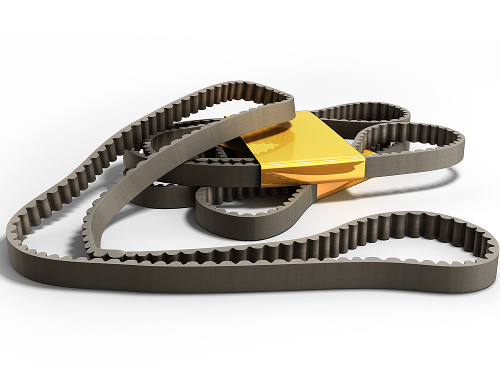
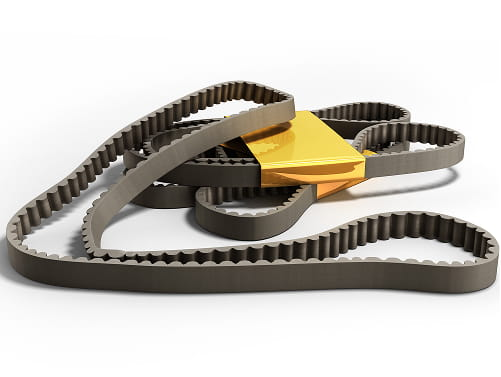
Add files via upload

diff --git a/css/main.css b/css/main.css
@@ -2177,3 +2177,85 @@ input[type=number] {
 .relatives .title-section {
 	margin-top: 0;
 }
+
+.item-news {
+	padding: 20px;
+	border: 1px solid rgba(102, 106, 114, 0.5);
+	border-radius: 6px;
+	display: flex;
+	flex-direction: column;
+	align-items: flex-start;
+	min-height: 100%;
+	transition: all 0.3s;
+}
+.item-news__image {
+	height: 207px;
+	margin-bottom: 14px;
+	display: block;
+	width: 100%;
+}
+.item-news__image img {
+	width: 100%;
+	height: 100%;
+	object-fit: cover;
+}
+.item-news__content {
+	display: flex;
+	flex-direction: column;
+	align-items: flex-start;
+	flex: 1;
+	width: 100%;
+}
+.item-news__title {
+	font-size: 20px;
+	padding-bottom: 14px;
+	margin-bottom: auto;
+	line-height: 140%;
+	color: #1a0d00;
+	font-weight: 500;
+	display: block;
+	width: 100%;
+	font-family: 'Roboto Slab';
+}
+.item-news__text {
+	color: #1a0d00;
+	display: block;
+	width: 100%;
+	display: -webkit-box;
+	-webkit-line-clamp: 2;
+	line-clamp: 2;
+	-webkit-box-orient: vertical;
+	overflow: hidden;
+}
+.item-news__bottom {
+	padding-top: 30px;
+	width: 100%;
+	display: flex;
+	align-items: center;
+	justify-content: space-between;
+}
+.item-news__date {
+	font-size: 14px;
+	line-height: 160%;
+	color: #666a72;
+}
+.page-news .title-middle {
+	margin-bottom: 22px;
+	font-weight: 500;
+	color: #1a0d00;
+}
+.btn-main--border {
+	border: 1px solid #f07d00;
+	background: transparent;
+	color: #f07d00;
+}
+.item-news .btn-main {
+	height: 40px;
+	font-size: 14px;
+}
+.page-news {
+	padding-bottom: 90px;
+}
+.row--main>.col-lg-6:nth-child(odd)>.item-news {
+	background: #f3f0ed;
+}

diff --git a/css/media.css b/css/media.css
@@ -391,8 +391,23 @@
         height: 48px;
         padding: 0px 27px;
     }
+    .page-news,
     .relatives {
         padding-bottom: 70px;
+    }
+    .item-news {
+        padding: 15px;
+    }
+    .item-news__title {
+        font-size: 17px;
+        padding-bottom: 11px;
+    }
+    .item-news__bottom {
+        padding-top: 20px;
+    }
+    .item-news__image {
+        height: 184px;
+        margin-bottom: 11px;
     }
 }
 /* Large Devices, Wide Screens */
@@ -990,9 +1005,8 @@
         height: 40px;
         padding: 0 5px;
     }
-    .page-card {
-        padding-bottom: 50px;
-    }
+    .page-card,
+    .page-news,
     .relatives {
         padding-bottom: 50px;
     }
@@ -1090,6 +1104,15 @@
         background: #f3f0ed;
         border-color: #f3f0ed;
     }
+    .btn-main--border:hover {
+        color: #fff;
+    }
+    a.item-news__title:hover {
+        color: #F07D00;
+    }
+    .item-news:hover {
+        box-shadow: 0 5px 15px rgba(102, 106, 114, 0.3);
+    }
 }
 
 
@@ -1131,5 +1154,14 @@
     .tabs a:active {
         background: #f3f0ed;
         border-color: #f3f0ed;
+    }
+    .btn-main--border:active {
+        color: #fff;
+    }
+    a.item-news__title:active {
+        color: #F07D00;
+    }
+    .item-news:active {
+        box-shadow: 0 5px 15px rgba(102, 106, 114, 0.3);
     }
 }
